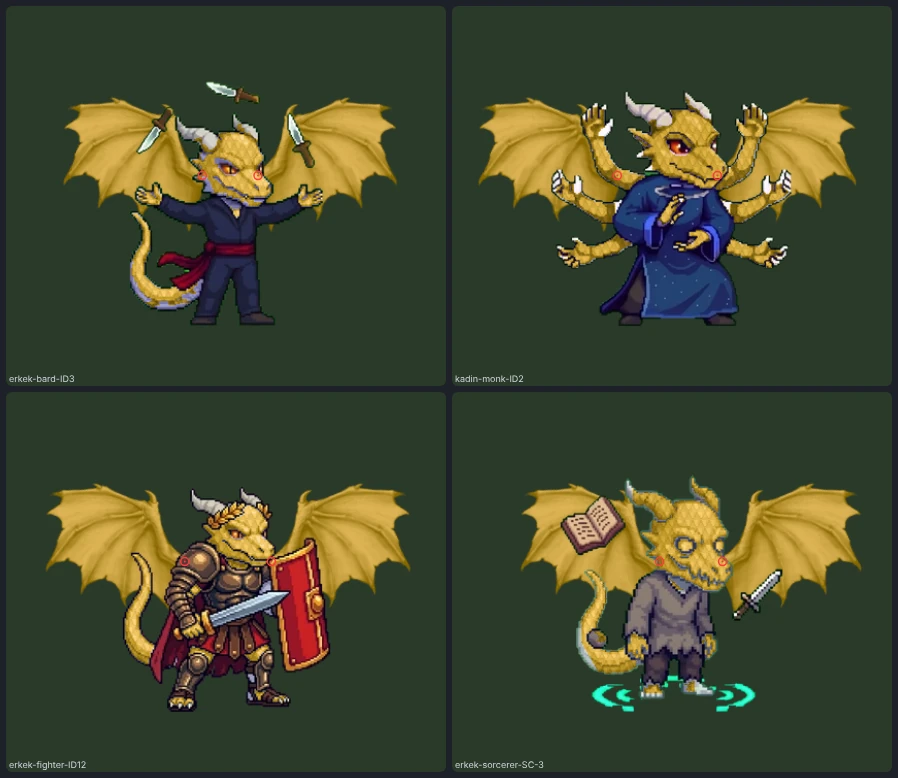
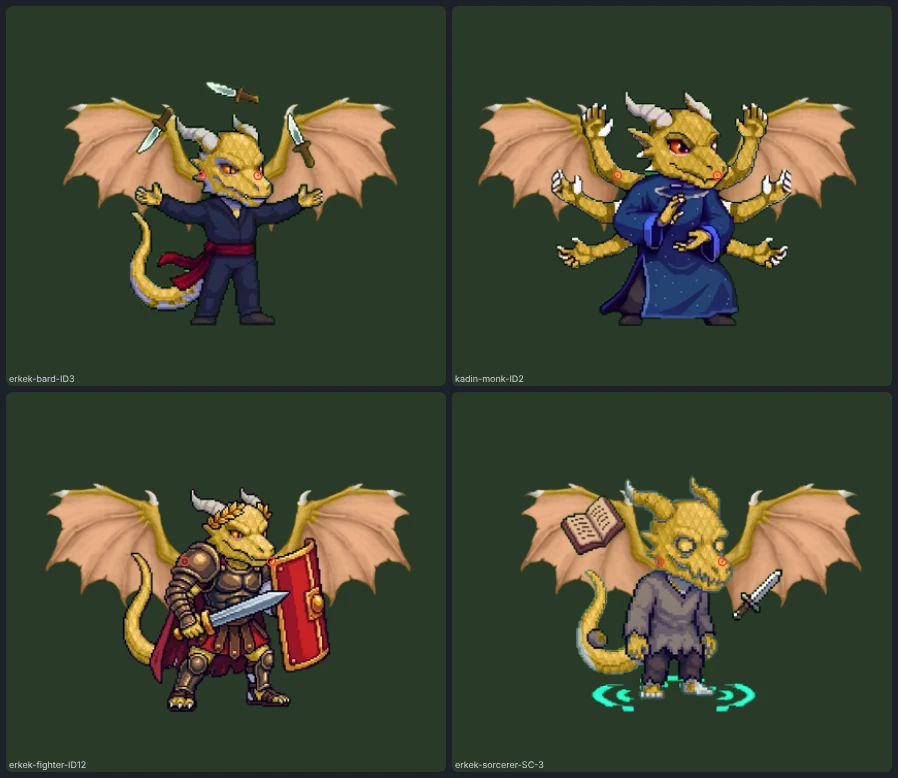
Dragonborn kanadı: pembe karışımlı zar seçildi, kanat ucundaki kemik uçları da beyaz (KW3)
Kullanıcı karışımsız hali bıraktı, pembe karışımlıyı (B) seçti ve kanadın en ucundaki kemik uçlarının da beyaz olmasını istedi: pençe katmanına üçüncü bölge (ön kenar kemiği düğümü + sivri uç) eklendi (1282 piksel), pençe paleti yeniden çözüldü (eşik 0,639), ön kenar şeridi x < 326. A/B karşılaştırma görüntüleri çıkarıldı, yerine karisim-ozet/karisim-tam. Yalnız görünüm, kural sürümü değişmedi. kanatKatman.test.tsx uç kemiği kümesini de denetler.

Claude-Session: https://claude.ai/code/session_01VVQfWxKYsxTev9oJZSnSPj

diff --git a/src/ui/kanatKatman.test.tsx b/src/ui/kanatKatman.test.tsx
@@ -1,6 +1,6 @@
 /**
  * KW2 (yalnız görünüm; kural sürümü değişmez): Dragonborn kanadının iki ek katmanı. Taban görsel (kol ve ön kenar kemiği: soy renginde) üstüne
- * `zar` (kanat zarı: soy rengi + pembe karışımı) ve `pence` (pençe uçları: boynuz beyazı) saydam katmanları çizilir (`public/kanat/dragonborn-zar.webp`,
+ * `zar` (kanat zarı: soy rengi + pembe karışımı) ve `pence` (iki pençe ucu + kanat ucundaki kemik ucu: boynuz beyazı) saydam katmanları çizilir (`public/kanat/dragonborn-zar.webp`,
  * `dragonborn-pence.webp`, üretici `scripts/dragonborn-kanat-katman.py`; paletler `scripts/dragonborn-kanat-palet.ts`). `katmanlar.zar.etkin: false`
  * karışımsız hal (karşılaştırma); pençe iki halde de beyaz.
  */
@@ -87,18 +87,18 @@ describe('KW2 çizim: taban → zar → pençe, her kanatta aynı kutu ve dönü
 });
 
 describe('KW2 katman görselleri', () => {
-  it('zar ve pençe taban görselle aynı boyutta; pençe yalnız iki üst çıkıntıda (büyük kanca + küçük pençe), zar pençeye boya vermez', async () => {
+  it('zar ve pençe taban görselle aynı boyutta; pençe yalnız üç yerde (büyük kanca, küçük pençe, kanat ucu kemiği), zar pençeye boya vermez', async () => {
     const base = await layer('dragonborn.webp'), zar = await layer('dragonborn-zar.webp'), pence = await layer('dragonborn-pence.webp');
     expect([zar.w, zar.h, pence.w, pence.h]).toEqual([base.w, base.h, base.w, base.h]);
-    let c1 = 0, c2 = 0, diger = 0, zarPencede = 0;
+    let c1 = 0, c2 = 0, c3 = 0, diger = 0, zarPencede = 0;
     for (let y = 0; y < base.h; y++) for (let x = 0; x < base.w; x++) {
       const i = y * base.w + x;
       if (pence.alpha[i]! > 128) {
-        if (x >= 120 && x <= 170 && y <= 28) c1++; else if (x >= 250 && x <= 290 && y <= 40) c2++; else diger++;
+        if (x >= 120 && x <= 170 && y <= 28) c1++; else if (x >= 250 && x <= 290 && y <= 40) c2++; else if (x >= 322 && y >= 58 && y <= 96) c3++; else diger++;
         if (zar.alpha[i]! > 8) zarPencede++;
       }
     }
-    expect(c1).toBeGreaterThan(300); expect(c2).toBeGreaterThan(60); expect(diger).toBe(0); expect(zarPencede).toBe(0);
+    expect(c1).toBeGreaterThan(300); expect(c2).toBeGreaterThan(60); expect(c3).toBeGreaterThan(200); expect(diger).toBe(0); expect(zarPencede).toBe(0);
     // zar büyük bölge (kanat zarı), çerçeve (kol, ön kenar) dışarıda: taban alfasının %70–90'ı
     const nb = base.alpha.filter((v) => v > 128).length, nz = zar.alpha.filter((v) => v > 128).length;
     expect(nz / nb).toBeGreaterThan(0.7); expect(nz / nb).toBeLessThan(0.92);

diff --git a/scripts/dragonborn-kanat-katman.py b/scripts/dragonborn-kanat-katman.py
@@ -1,7 +1,7 @@
 #!/usr/bin/env python3
 """KW2 (yalnız görünüm): Dragonborn kanadının iki ek katmanı. Taban görsel (`public/kanat/dragonborn.webp`, tek sağ kanat) aynen kalır; üstüne iki saydam
 katman çizilir, her biri kendi palet filtresiyle boyanır:
-- `dragonborn-pence.webp`: pençe uçları (büyük kanca: kol düğümünün üstündeki boynuz; küçük pençe: ön kenar kemiğinin üstündeki çıkıntı); boynuz beyazı paletiyle.
+- `dragonborn-pence.webp`: pençe uçları (büyük kanca: kol düğümünün üstündeki boynuz; küçük pençe: ön kenar kemiğinin üstündeki çıkıntı; kanadın en ucundaki kemik ucu); boynuz beyazı paletiyle.
 - `dragonborn-zar.webp`: kanat zarı = kanat − (kol + el bileği düğümü) − (ön kenar şeridi) − pençeler; soy renginin pembeyle karışımı paletiyle (yalnız `zar.etkin` açıkken çizilir).
 Katman = taban görselin parlaklığı + alfa × bölge ağırlığı (kenarlar yumuşatılmış, dikiş görünmez). Bölgeler elle (sprite pikseli, 364×279; kılavuz: kontrast gerili görsel
 üzerinde ızgara) ve ön kenar için sütun başına üstten BAND px.
@@ -17,12 +17,15 @@ KAYNAK = os.path.join(ROOT, 'public/kanat/dragonborn.webp')
 PENCE = [
     [(123, 18), (127, 10), (132, 4), (140, 1), (150, 0), (160, 2), (164, 5), (156, 8), (149, 10), (145, 15), (144, 21), (138, 25), (130, 25), (124, 22)],
     [(256, 26), (262, 24), (272, 24), (278, 26), (283, 29), (277, 31), (271, 34), (264, 35), (257, 32)],
+    # kanadın en ucundaki kemik ucu: ön kenar kemiğinin parlak düğümü + sivri uç (sağ/aşağı)
+    [(326, 62), (334, 62), (340, 66), (346, 71), (353, 76), (359, 81), (363, 86), (364, 93), (358, 92), (352, 89), (346, 88), (340, 86), (334, 80), (328, 72)],
 ]
 # Kol (kalın pullu kemik) ve el bileği düğümü: zar boyası bunlara girmez, soy renginde kalır.
 KOL = [(0, 108), (36, 106), (64, 98), (80, 84), (90, 66), (102, 48), (112, 34), (120, 24), (150, 24), (165, 40), (160, 60), (148, 72), (132, 74), (122, 70),
        (114, 80), (104, 96), (96, 112), (88, 128), (78, 137), (60, 143), (30, 143), (0, 143)]
 BAND = 16          # ön kenar kemiği: x ≥ BAND_X sütunlarında kanadın üst kenarından aşağı bu kadar piksel
 BAND_X = 140
+BAND_X_END = 326   # uç kemik çokgeninden önce biter
 YUMUSAK = 1.6      # bölge geçişi (Gauss sigma, px)
 PENCE_YUMUSAK = 0.7
 
@@ -41,7 +44,7 @@ def bolgeler(alfa):
     band = np.zeros((h, w), bool)
     govde = alfa & ~ndi.binary_dilation(pence, iterations=2)   # üst kenar pençeleri atlayarak ölçülür (pençe sütunlarında kemik, pençenin altında)
     govde[:22, :] = False                                      # büyük kancanın artık pikselleri (y < 22) kemik sayılmaz
-    for x in range(BAND_X, w):
+    for x in range(BAND_X, BAND_X_END):
         ys = np.where(govde[:, x])[0]
         if len(ys): band[ys.min():ys.min() + BAND, x] = True
     cerceve = (kol | band) & ~pence

diff --git a/DECISIONS.md b/DECISIONS.md
@@ -9,28 +9,18 @@ Projede alınan içerik ve kural kararlarının kaydı. En yeni karar en üstte.
 
 
 
-## Dragonborn kanadı: beyaz pençe uçları + pembe karışımlı zar, iki hal: Kuyruk KW2 (2026-11-19, kullanıcı isteği; yalnız görünüm, kural ve kayıt sürümü değişmedi)
+## Dragonborn kanadı: beyaz pençe ve uç kemikleri + pembe karışımlı zar: Kuyruk KW2/KW3 (2026-11-19, kullanıcı istekleri; yalnız görünüm, kural ve kayıt sürümü değişmedi)
 
-İstek (KW1 görüntüsüne daireler çizilerek): kanat üstündeki pençe uçları boynuzlarla aynı beyazlıkta olsun; kanatların iç kısmı soy renginin pembeyle karışımı olsun ("sarı ise sarı ile pembe karışımı"); karışımlı ve karışımsız iki hal gösterilsin, seçim kullanıcıda, ikisinde de pençe beyaz. Görüntüler `docs/sabah/dragonborn-kanat/iki-hal-ozet.webp`, `iki-hal.webp`.
+Gidiş: kullanıcı KW1 görüntüsüne daireler çizdi: pençe uçları boynuzlarla aynı beyazlıkta olsun, kanatların iç kısmı soy renginin pembeyle karışımı olsun ("sarı ise sarı ile pembe"); iki hal gösterilsin, ikisinde de pençe beyaz. İki hal gösterildi (A karışımsız, B pembe karışımlı). Kullanıcı seçti: "diğer seçeneği boşver, direkt pembe ile karışımı yap" (B); ayrıca kanadın en ucundaki kemik uçları da beyaz olsun (son daire). Ara denemelerde "direkt pembe" ifadesi yanlış okunup düz pembe (soydan bağımsız) ve pembe baskın karışım (0,7) yapıldı; ikisi de kullanıcının isteği olmadığı için atıldı (kodu geri alındı, commit'lenmedi). Sonuç: B + beyaz uç kemikleri. Görüntüler `docs/sabah/dragonborn-kanat/karisim-ozet.webp`, `karisim-tam.webp`.
 
-- **Katman yaklaşımı (karar).** Taban görsel (`dragonborn.webp`) aynen kalır; üstüne aynı boyutta iki saydam katman çizilir (`dragonborn-zar.webp`, `dragonborn-pence.webp`; RGB = taban parlaklığı, alfa = bölge ağırlığı, kenarlar Gauss ile yumuşak). Her kanat bir `<g>` (kutu, dönüş, ayna) içinde taban → zar → pençe, her katman kendi palet filtresiyle (`WingPart`, `wingParts`, `WingPairImage`). Seçenekler: tek görselde kanal kodlu bölge + çok adımlı SVG filtre grafiği (daha kırılgan, tarayıcı farkı riski), `<mask>` (görsel başına ek eleman) ya da hazır boyalı görseller (10 soy × katman). Üç `<image>` en basit ve her ortamda (SVG jeton, HTML rozet) aynı çıktıyı verdi; ek dosya 24 KB. Savaş jetonu ölçeği, kök, katman sırası (kanat figürün arkasında), palet kimliği kuralları değişmedi.
-- **Bölgeler (karar).** Elle çokgenler (`scripts/dragonborn-kanat-katman.py`, 364×279 kanat görseli, kontrast gerili ızgara üzerinde okundu): pençe = kullanıcının kırmızı dairesindeki büyük kanca (kol düğümünün üstü) + turuncu dairesindeki ön kenar küçük pençesi (779 piksel); çerçeve = kol + el bileği düğümü (çokgen) + ön kenar kemiği (üst kenardan 16 px, pençe artık pikselleri atlanarak) soy renginde kalır; zar = kalan alan. Otomatik kemik tespiti (bant geçiren çıkıntı) gürültülü çıktı, elle tarif tercih edildi. İnce parmak kemikleri zar bölgesinde kaldı (pembe karışımlı, gölgesiyle seçilir; ayrıntılı çerçeve istenirse çokgen eklenir).
-- **Beyaz pençe (karar): boynuz beyazı ölçüldü.** 24 Gariban jetonunun boyanmamış baş bölgesi (pul maskesi dışı, L > 68, kroma < 10; 12,7 bin piksel): RGB (202, 199, 194), Lab (80,4 / 0,2 / 2,8). Pençe paleti sabit (soydan bağımsız): gölge `#999590`, ışık `#f0ede8`, eşik 0,682; pençe ortalaması Lab (80,4 / 0,3 / 2,9). İki halde de aynı.
-- **Pembe karışımı (karar).** Soyun taban paletiyle zar bölgesinin ortalaması, Lab'da pembeyle (75, 30, 4) karıştırılır: a*, b* `ab` = 0,5 oranında, açıklık `aciklik` = 0,15 oranında pembeye; pembenin kroması açıklık oranıyla ölçeklenir (koyu soylarda koyu pembe, 0,5–1). Zar paleti bu hedef ortalamaya aynı yayılımla çözülür (`scripts/dragonborn-kanat-palet.ts`, `renkPaletleri.<soy>.zar`). Zar ortalaması (karışımsız → karışımlı, Lab): Black (23,2 / 2,3 / −5,8) → (31,2 / 8,8 / −1,8); Blue (35,2 / −1,8 / −22,8) → (41,5 / 7,2 / −10,2); Brass (56,4 / 2,1 / 40,9) → (59,3 / 12,9 / 21,9); Bronze → (45,8 / 15,9 / 16,4); Copper → (46,2 / 22,9 / 18,2); Gold (65,2 / 3,9 / 53,7) → (66,8 / 15,6 / 28,5) şeftali-somon; Green (43,2 / −33,2 / 24,8) → (48,2 / −7,2 / 13,6) soluk hakî; Red → (39,7 / 29,6 / 19,4); Silver → (64,2 / 11,5 / −3,2); White (88,4 / 0,7 / 5,4) → (86,4 / 15,0 / 4,6) açık pembe. Karışım literal (yeşil + pembe gibi tamamlayıcıya yakın renkler solar); oranlar (`pembe` verisi) tek yerde.
-- **İki hal (karar: seçim kullanıcıda).** A karışımsız: `katmanlar.zar.etkin: false`; B pembe karışımlı: `etkin: true` (varsayılan: istek "renk karışımını yap" idi). Seçim tek satır; seçilmeyen hal kod olarak kalır (`wingParts`).
-- **Testler.** Yeni `src/ui/kanatKatman.test.tsx` (8 test): katman çözümü (iki hal, katmansız slot), SVG ve rozet sırası (taban → zar → pençe, pençe figürden önce, 7 `<image>`), filtre tanımları, katman görselleri (aynı boyut, pençe yalnız iki üst çıkıntıda, zar pençeye boya vermez), pençe rengi (boynuz ortalaması ± 3, kroma < 6), zar pembe karışımı (her soyda pembeye ≥ 5 yaklaşır, açıklık ≤ 10 oynar, kayma ΔE ≥ 8, White ↔ Silver zar ≥ 12). KW1 testleri değişmeden geçer.
-- **Bilinen sınırlar.** Yalnız daire içindeki iki pençe beyaz; alttaki üç parmak ucu ve dış uç sivrisi taban renginde (istenirse çokgen eklenir). Karışımlı halde kanat ortalaması (zar dahil) gövdeden uzaklaşır; KW1'in "kanat–gövde ΔE" ölçütü taban palet (karışımsız hal) için geçerli kalır. Kanat başına 3 `<image>`: uçan jeton sayısı az olduğu için ek yük ihmal edilebilir.
+- **Katman yaklaşımı (karar).** Taban görsel (`dragonborn.webp`: kol, el bileği düğümü, ön kenar kemiği) aynen kalır, soy renginde; üstüne aynı boyutta iki saydam katman (`dragonborn-zar.webp`, `dragonborn-pence.webp`; RGB = taban parlaklığı, alfa = bölge ağırlığı, kenarlar Gauss ile yumuşak). Her kanat bir `<g>` (kutu, dönüş, ayna) içinde taban → zar → pençe, her katman kendi palet filtresiyle (`WingPart`, `wingParts`, `WingPairImage`). Seçenekler: tek görselde kanal kodlu bölge + çok adımlı SVG filtre grafiği (kırılgan, tarayıcı farkı riski), `<mask>` (görsel başına ek eleman) ya da soy başına hazır boyalı görseller (10 × katman). Üç `<image>` en basit ve her ortamda (SVG jeton, HTML rozet) aynı çıktıyı verdi; ek dosya ≈ 24 KB. Savaş jetonu ölçeği, kök, katman sırası (kanat figürün arkasında), palet kimliği kuralları değişmedi.
+- **Bölgeler (karar).** Elle çokgenler (`scripts/dragonborn-kanat-katman.py`, 364×279 kanat görseli, kontrast gerili ızgara üzerinde okundu). Pençe katmanı (beyaz, 1282 piksel, üç bölge): büyük kanca (kol düğümünün üstü), ön kenardaki küçük pençe, kanadın en ucundaki kemik ucu (ön kenar kemiğinin parlak düğümü + sivri uç). Çerçeve (soy renginde): kol + el bileği düğümü (çokgen) + ön kenar kemiği (üst kenardan 16 px, x < 326, pençe artık pikselleri atlanarak). Zar: kalan alan. Otomatik kemik tespiti (bant geçiren çıkıntı) gürültülü çıktı, elle tarif tercih edildi. İnce parmak kemikleri zar bölgesinde kaldı (pembe karışımlı, parlaklık gölgesiyle seçilir; ayrıntılı çerçeve istenirse çokgen eklenir).
+- **Beyaz pençe (karar): boynuz beyazı ölçüldü.** 24 Gariban jetonunun boyanmamış baş bölgesi (pul maskesi dışı, L > 68, kroma < 10; 12,7 bin piksel): RGB (202, 199, 194), Lab (80,4 / 0,2 / 2,8). Pençe paleti sabit (soydan bağımsız): gölge `#999590`, ışık `#f0ede8`, eşik 0,639 (uç kemiği eklenince 0,682'den); pençe ortalaması Lab (80,4 / 0,3 / 2,9).
+- **Pembe karışımı (karar).** Soyun taban paletiyle zar bölgesinin ortalaması, Lab'da pembeyle (75, 30, 4) karıştırılır: a*, b* yarı yarıya (`pembe.ab` 0,5), açıklık %15 (`pembe.aciklik`); pembenin kroması açıklık oranıyla ölçeklenir (koyu soylarda koyu pembe, 0,5–1). Zar paleti bu hedef ortalamaya aynı yayılımla çözülür (`scripts/dragonborn-kanat-palet.ts`, `renkPaletleri.<soy>.zar`). Zar ortalaması (karışımsız → karışımlı, Lab): Black (23,2 / 2,3 / −5,8) → (31,2 / 8,8 / −1,8); Blue (35,2 / −1,8 / −22,8) → (41,5 / 7,2 / −10,2); Brass (56,4 / 2,1 / 40,9) → (59,4 / 12,9 / 21,9); Bronze → (45,9 / 15,9 / 16,4); Copper → (46,2 / 22,9 / 18,2); Gold (65,2 / 3,9 / 53,7) → (66,8 / 15,6 / 28,5) şeftali-somon; Green (43,2 / −33,2 / 24,8) → (48,2 / −7,2 / 13,6) soluk hakî; Red → (39,7 / 29,6 / 19,4); Silver → (64,2 / 11,5 / −3,2); White (88,4 / 0,7 / 5,4) → (86,4 / 15,0 / 4,6) açık pembe. Karışım literal (yeşil + pembe gibi tamamlayıcıya yakın renkler solar); oranlar (`pembe` verisi) tek yerde.
+- **Eski hal anahtarı.** `data/kanat-esleme.json` `dragonborn.katmanlar.zar.etkin: false` zarı soy renginde bırakır (pençe ve uç kemikleri yine beyaz); varsayılan `true`.
+- **Testler.** `src/ui/kanatKatman.test.tsx` (8 test): katman çözümü (zar soya özgü pembe karışımlı palet, pençe tek palet; `etkin: false`; katmansız slot), SVG ve rozet sırası (taban → zar → pençe, pençe figürden önce, 7 `<image>`), filtre tanımları, katman görselleri (aynı boyut; pençe yalnız üç yerde: kanca, küçük pençe, uç kemiği; zar pençeye boya vermez; zar tabanın %70–92'si), pençe rengi (boynuz ortalaması ± 3, kroma < 6), zar pembe karışımı (her soyda pembeye ≥ 5 yaklaşır, açıklık ≤ 10 oynar, kayma ΔE ≥ 8, White ↔ Silver zar ≥ 12). KW1 testleri değişmeden geçer.
+- **Bilinen sınırlar.** Alttaki üç parmak ucu taban renginde (daire içinde değildi; istenirse çokgen eklenir). KW1'in "kanat–gövde ΔE" ölçütü yalnız taban palet (çerçeve, soy rengi) için geçerli; karışımlı zar gövdeden uzaklaşır. Kanat başına 3 `<image>`: uçan jeton sayısı az, ek yük ihmal edilebilir.
 
-## Dungeondex, Türkçe sürüm (2026-11-20; yalnız arayüz, kural ve kayıt sürümü değişmedi)
-
-- Tasarım ve envanter `harita/belgeler/DUNGEONDEX-TASARIM.md` (ilk commit, salt okunur). Ekran tembel parça `src/screens/Dungeondex.tsx` (+ `dungeondex.css`), katalog `src/dungeondex/catalog.ts`; ana menüde "Dungeondex" düğmesi (Ayarlar'ın yanında). Ana parça 448,6 kB.
-- Kapsam (kullanıcı kararı): büyü 339, eşya 449 (319 sihirli + 80 donanım + 38 silah + 12 zırh), canavar 330, tür 10, alt soy 41 (38 + 3 Celestial Göksel Uyanış), alt sınıf (yüklü olanların hepsi; < 120 ise "içerik eksik" notu, çökmez), feat 17, geçmiş 12, durum 15 (14 + Exhaustion) + "Lisanslar ve atıf".
-- Kimlikler mevcut SRD kimlikleri. Durumların Türkçe açıklaması yoktu: `data/aciklamalar-tr.json` `durum` (kimlik = SRD durum adının küçük harfi; `AciklamaTuru` `durum`). Canavarların Türkçe açıklaması yok (330 eksik): kartta Türkçe özet satırı + stat + "Türkçe açıklama henüz yok".
-- SD4 ad kuralı; SRD İngilizce ham metni (`text`, `raw`) kullanılmaz; kaynak sayfa gösterilmez. Açıklama dil anahtarlı (`DexText` tr/en/ui): `data/aciklamalar-en.json` aynı yapıyla eklenince (`import.meta.glob`) kod değişmeden EN metni gelir; yoksa EN arayüzde Türkçe metin + "Description available in Turkish only" notu.
-- Arama TR/EN ad, aksan duyarsız; süzgeçler büyü seviye/okul/sınıf, canavar CR kademesi/tür, eşya türü, alt sınıf sınıfı, alt soy türü, feat kategorisi (en çok 6 görünür, fazlası katta). Sabitler `data/dungeondex.json` (sayfa 40, CR kademeleri, büyü sınıf kodları, durum adları).
-- Bağlantılar yalnız veridekiler: büyü → sınıf listesi ve uyguladığı durum, canavar → büyüleri (`canavar-buyuleri.json`) ve durum bağışıklıkları; canavar ortamı (harita adları, gizli harita yok) ve teması etiket; tür ↔ alt soy; geçmiş ↔ köken feat'i; durum → onu uygulayan büyüler; eşya → yüklü büyüler.
-- Lisans sayfası `NOTICE` metnini değiştirmeden gösterir (ilk satır depo adı atlanır), uygulama adı `APP_NAME`; "D&D" yalnız mekanik kaynağını anlatırken.
-- Mobil: tek sütun (kategori → liste → kart, büyük Geri düğmesi), ≥ 760 px iki sütun. Uzun listeler 40'lık sayfa ("Daha fazla göster"). Test `src/dungeondex/dungeondex.test.tsx`; görüntüler `docs/sabah/dungeondex/`.
 ## Dragonborn kanadı gövdeye bağlandı + palet uyumu: Kuyruk KW1 (2026-11-19; yalnız görünüm, kural ve kayıt sürümü değişmedi)
 
 Sorun (kullanıcı ekran görüntüsü, Siyah Dragonborn Gladyatör): kanat çifti jeton ortasından çiziliyordu ve rozette bütün zemin dairesi kanadın üstündeydi; kanatlar dairenin iki yanında gövdeden kopuk, soluk gri-pastel duruyordu. Görseller `docs/sabah/dragonborn-kanat/` (`once-sonra.webp`, `kok-kontrol.webp`, `kontak-290.webp`, `README.md`). Kullanıcı kararı: soru sorulmadan en makul karar. Kök yüksekliği geri bildirimle ayarlandı: ilk 0,44; "biraz daha omuz hizasına çekelim" yanlış yönde (aşağı) okundu (0,47 → 0,50); kullanıcı düzeltti: "biraz daha yukarı al, %10 kadar" → 0,40.

diff --git a/docs/sabah/dragonborn-kanat/README.md b/docs/sabah/dragonborn-kanat/README.md
@@ -64,18 +64,19 @@ python3 scripts/dragonborn-kanat-kok.py                   # data/dragonborn-kana
 npx vite-node scripts/dragonborn-kanat-palet.ts --yaz     # data/kanat-esleme.json renkPaletleri
 ```
 
-## KW2: beyaz pençe uçları + pembe karışımlı zar (iki hal)
+## KW2/KW3: pembe karışımlı zar + beyaz pençe uçları ve kanat ucu kemikleri
 
-Kullanıcı isteği (ekran görüntüsünde daire içine alınan kısımlar): pençe uçları boynuzlarla aynı beyazlıkta, kanatların iç kısmı soy renginin pembeyle karışımı ("sarı ise sarı ile pembe"); iki hal gösterilip seçilecek, ikisinde de pençe beyaz.
+İstek (ekran görüntülerine daireler çizilerek): pençe uçları boynuzlarla aynı beyazlıkta; kanatların iç kısmı (zar) soy renginin pembeyle karışımı ("sarı ise sarı ile pembe"); kanadın en ucundaki kemik uçları da beyaz. İki hal gösterildi (karışımsız / pembe karışımlı); kullanıcı pembe karışımlıyı seçti, diğer hal bırakıldı.
 
 | Dosya | İçerik |
 |---|---|
-| `iki-hal-ozet.webp` | A (karışımsız) üstte, B (pembe karışımlı) altta: Erkek Fighter Gladyatör, 10 soy, 256 px |
-| `iki-hal.webp` | A \| B: 10 soy × (Erkek Fighter Gladyatör, Kadın Wizard) × (256, 96 px) |
+| `karisim-ozet.webp` | Erkek Fighter Gladyatör, 10 soy, 256 px |
+| `karisim-tam.webp` | 10 soy × (Erkek Fighter Gladyatör, Kadın Wizard) × (256, 96 px) |
+| `kok-kontrol.webp` | 4 farklı sınıf/poz kök kontrolü (Gold, kök noktaları kırmızı halka) |
 
-- **A: karışımsız.** `katmanlar.zar.etkin: false`: kanat soy renginde, pençe uçları beyaz.
-- **B: pembe karışımlı (varsayılan, `etkin: true`).** Kol ve ön kenar kemiği soy renginde, zar soy rengi + pembe. Pembe Lab (75, 30, 4); renk (a*, b*) yarı yarıya (`ab` 0,5), açıklık %15 (`aciklik`) pembeye kaydırılır, pembenin kroması açıklıkla ölçeklenir (koyu soylarda koyu pembe). Sarı (Gold): zar (65,2 / 3,9 / 53,7) → (66,8 / 15,6 / 28,5) şeftali-somon; Beyaz → açık pembe; Siyah → koyu mor-gri; Mavi → toz mor; Yeşil → soluk hakî. Seçim için tek satır: `data/kanat-esleme.json` `dragonborn.katmanlar.zar.etkin`.
-- **Bölgeler** (`scripts/dragonborn-kanat-katman.py`, kanat görseli 364×279): pençe = büyük kanca (kol düğümünün üstü, kullanıcının kırmızı dairesi) + ön kenardaki küçük pençe (turuncu daire), 779 piksel; çerçeve = kol + el bileği düğümü (çokgen) + ön kenar kemiği (üst kenardan 16 px); zar = kalan. İnce parmak kemikleri zar bölgesinde kalır (pembe karışımlı, parlaklık gölgesiyle seçilir).
-- **Paletler.** Pençe: gölge `#999590`, ışık `#f0ede8`, eşik 0,682, ortalama Lab (80,4 / 0,3 / 2,9) = boynuz ortalaması (24 Gariban jetonunda boyanmamış boynuz pikselleri, 12,7 bin piksel). Zar: soy başına `renkPaletleri.<soy>.zar` (golge, isik, esik 0,76; aynı yayılım).
-- Kapsam dışı (yalnız daire içindekiler yapıldı): alttaki üç parmak ucu ve dış uç sivrisi taban renginde kaldı; beyaz istenirse `PENCE` çokgenlerine eklenir.
-
+- **Katmanlar.** Taban görsel (`dragonborn.webp`: kol, el bileği düğümü, ön kenar kemiği) soy renginde kalır. Üstüne aynı kutuda iki saydam katman: `dragonborn-zar.webp` (kanat zarı) soy rengi + pembe karışımı, `dragonborn-pence.webp` beyaz. Her biri kendi palet filtresiyle (`renkPaletleri.<soy>.zar`, `katmanlar.pence.palet`).
+- **Pençe katmanı (beyaz):** üç bölge, 1282 piksel: büyük kanca (kol düğümünün üstü), ön kenardaki küçük pençe, kanadın en ucundaki kemik ucu (ön kenar kemiğinin parlak düğümü + sivri uç). Rengi jetonların boyanmamış boynuz pikselleri: 24 Gariban jetonu, 12,7 bin piksel, Lab (80,4 / 0,2 / 2,8); palet gölge `#999590`, ışık `#f0ede8`, eşik 0,639, ortalama Lab (80,4 / 0,3 / 2,9).
+- **Zar katmanı (pembe karışımı):** çerçeve (kol, el bileği düğümü, ön kenar şeridi 16 px) ve pençeler dışındaki bütün kanat. Pembe Lab (75, 30, 4); soyun taban paletiyle ölçülen zar ortalaması, a* ve b* yarı yarıya (`pembe.ab` 0,5), açıklık %15 (`pembe.aciklik`) pembeye kaydırılır; pembenin kroması açıklıkla ölçeklenir (koyu soylarda koyu pembe). Zar ortalaması (karışımsız → karışımlı, Lab): Black (23,2 / 2,3 / −5,8) → (31,2 / 8,8 / −1,8); Blue (35,2 / −1,8 / −22,8) → (41,5 / 7,2 / −10,2); Brass (56,4 / 2,1 / 40,9) → (59,4 / 12,9 / 21,9); Bronze → (45,9 / 15,9 / 16,4); Copper → (46,2 / 22,9 / 18,2); Gold (65,2 / 3,9 / 53,7) → (66,8 / 15,6 / 28,5) şeftali-somon; Green (43,2 / −33,2 / 24,8) → (48,2 / −7,2 / 13,6) soluk hakî; Red → (39,7 / 29,6 / 19,4); Silver → (64,2 / 11,5 / −3,2); White (88,4 / 0,7 / 5,4) → (86,4 / 15,0 / 4,6) açık pembe. Oranlar veride (`pembe`): daha pembe istenirse `ab` artırılıp `npx vite-node scripts/dragonborn-kanat-palet.ts --yaz` yeniden koşulur.
+- İnce parmak kemikleri zar bölgesinde kaldığı için pembe karışımlı (parlaklık gölgesiyle seçilir). `katmanlar.zar.etkin: false` zarı soy renginde bırakır.
+- Bölgeler elle çokgen (`scripts/dragonborn-kanat-katman.py`, `--onizleme <png>` bölgeleri renkli gösterir).
+- Kapsam dışı: alttaki üç parmak ucu taban renginde (daire içinde değildi).
